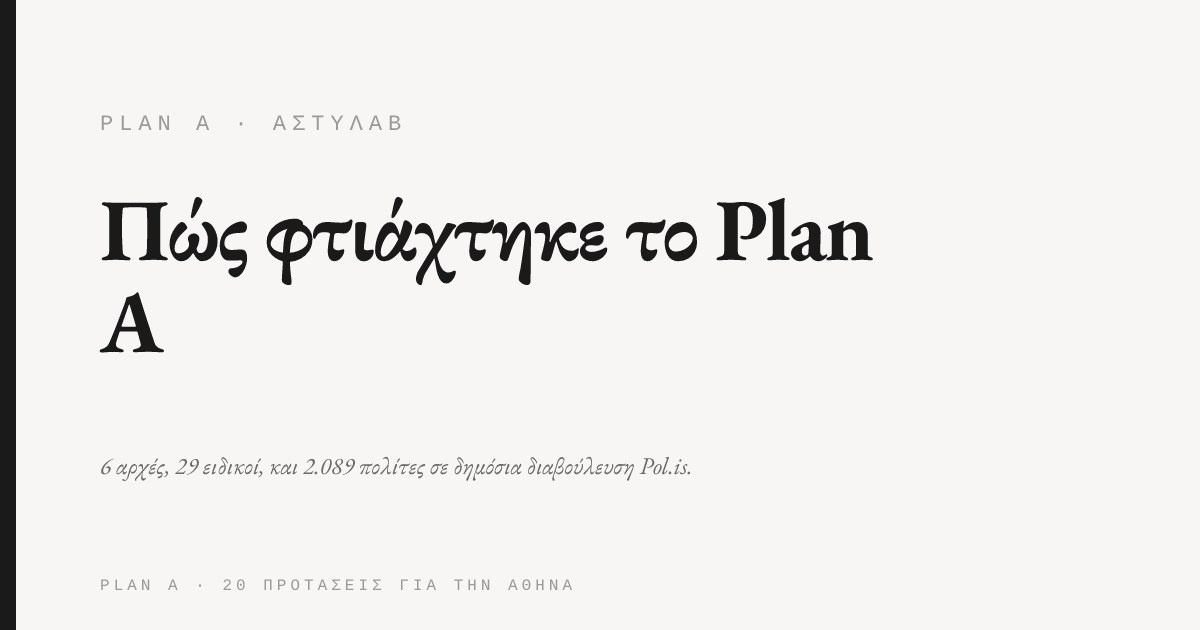
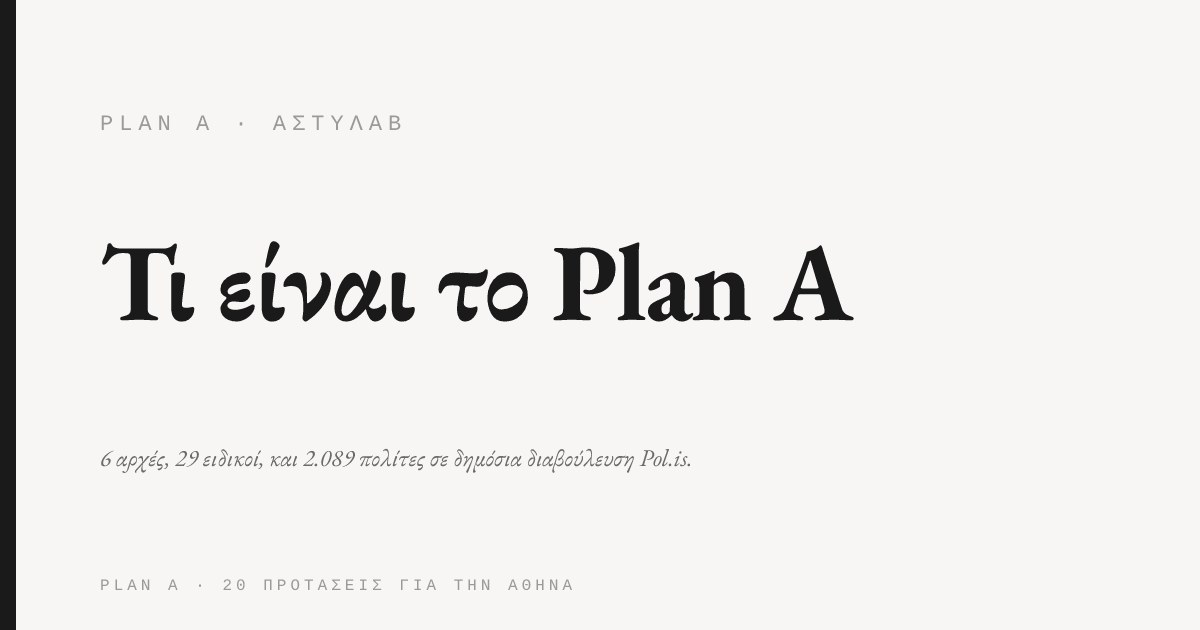
Rename methodology page to "Τι είναι το Plan A" at /about; content tweaks
- Route /methodologia → /about; footer link label "Μεθοδολογία" →
  "Τι είναι το Plan A"; landing intro link + page title likewise. OG image
  regenerated (filename unchanged).
- methodology.yaml: hyperlink the Pol.is phrase to the report; reword two
  principle titles ("Μέγιστος αντίκτυπος με το χαμηλότερο κόστος",
  "Εντός του υφιστάμενου ρυθμιστικού πλαισίου").
- Επόμενα βήματα: add a contact line with mailto links.

Changed region(s): [[0.0617, 0.3016, 0.74, 0.573], [0.0617, 0.7238, 0.5858, 0.754]]

diff --git a/src/components/plan-a-cover.jsx b/src/components/plan-a-cover.jsx
@@ -214,8 +214,8 @@ export const PlanACover = ({ proposals, navigate }) => {
           <p style={{ fontSize: 16, lineHeight: 1.85, color: C.mid, marginTop: 0, marginBottom: 22, ...enter(440) }}>
             {foreword}{' '}
             <a
-              href="/methodologia"
-              onClick={(e) => { e.preventDefault(); navigate('/methodologia'); }}
+              href="/about"
+              onClick={(e) => { e.preventDefault(); navigate('/about'); }}
               style={{
                 color: C.mid,
                 textDecoration: 'underline dotted',
@@ -226,7 +226,7 @@ export const PlanACover = ({ proposals, navigate }) => {
               onMouseEnter={(e) => { e.currentTarget.style.color = C.ink; }}
               onMouseLeave={(e) => { e.currentTarget.style.color = C.mid; }}
             >
-              Πώς φτιάχτηκε το Plan A;
+              Τι είναι το Plan A;
             </a>
           </p>
 

diff --git a/src/components/site-footer.jsx b/src/components/site-footer.jsx
@@ -17,7 +17,7 @@ const fundShortLead = acknowledgments.funding_short.split(FUND_LINK)[0];
 // `released`-only entries (Διαβούλευση, Παραπομπές) are hidden pre-launch since
 // those pages aren't available yet.
 const LINKS = [
-  { href: '/methodologia',    label: 'Μεθοδολογία' },
+  { href: '/about',           label: 'Τι είναι το Plan A' },
   { href: '/diavoulefsi',     label: 'Διαβούλευση', released: true },
   { href: '/parapombes',      label: 'Παραπομπές', released: true },
   { href: '/epomena-vimata',  label: 'Επόμενα βήματα' },

diff --git a/src/app.jsx b/src/app.jsx
@@ -25,7 +25,7 @@ const Presentation = lazy(() => import('./components/presentation'));
 function parseRoute() {
   const path = window.location.pathname.replace(/\/$/, '');
   // Static pages first — these are word slugs, not numbers, so no conflict.
-  if (path === '/methodologia') return { kind: 'methodologia' };
+  if (path === '/about') return { kind: 'methodologia' };
   if (path === '/epomena-vimata') return { kind: 'epomena-vimata' };
   if (path === '/eucharisties') return { kind: 'eucharisties' };
   if (path === '/parapombes') return { kind: 'parapombes' };
